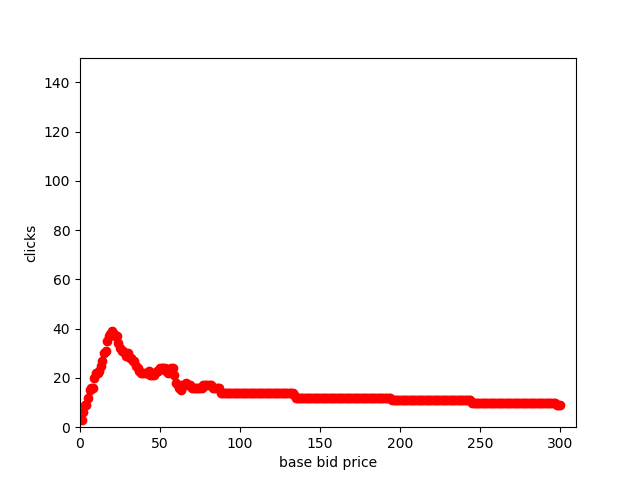
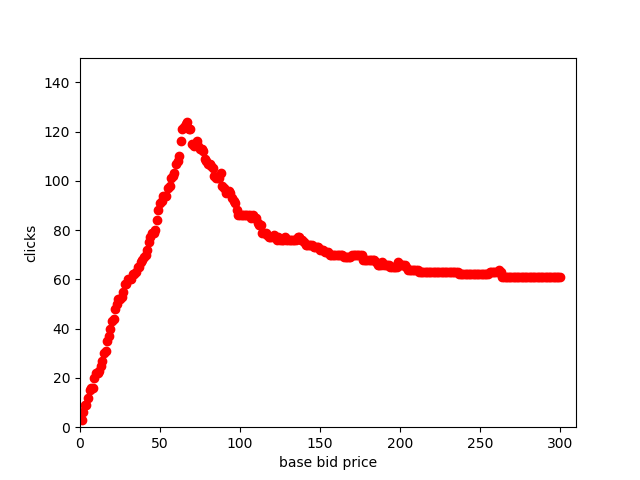
change the budget error in report

Changed region(s): [[0.1562, 0.25, 0.9062, 0.875]]

diff --git a/report/group_11_report.tex b/report/group_11_report.tex
@@ -106,22 +106,20 @@ Evaluation function: For the single-agent basic bidding strategies, the main met
 
 \subsubsection{Constant Bidding Strategy}
 In order to find an optimal constant value, we loop the constant bid prices from 0 to 300, which are the minimum bid price and maximum bid price, to find out the bid price with the highest clicks from winning impressions. Specifically, for each constant price, we retrieve the columns of 'payprice' and 'click' for all the bids in the training set. Then we compare our constant bid price with the 'payprice' for each bid and add up the click into our total clicks if our constant bid price is great than or equal to the 'payprice' while the total spend is calculated at the mean time. Afterwards we remove the clicks from bottom to top where the total spend has been over our limited budget.
+In order to use the training set to find out a good price for validation set, initially we need to normalize the budget based on equation 1.
+
+\begin{equation}budget_{train}=\frac{sizeOfTrain}{sizeOfValidation} * budget_{validation}\end{equation}
 
 Analysis: 
-Figure 1 shows that how the number of clicks changes based on the increment of the constant bidding price.
-The clicks increase dramatically when the constant bidding price increases from 1 to 24 and the climax of clicks is 134 when the constant bidding price is 24. Then the clicks drop sharply when the bidding price increases from 25 to 69. Afterwards, the clicks decrease smoothly.
-
-In order to evaluate our result on validation set, initially we need to normalise the budget based on the Equation 1.\\
-
-\begin{equation}bidPrice_{validation}=\frac{sizeOfValidation}{sizeOfTrain} * bidPrice_{train}\end{equation}
+Figure 1 shows that how the value of click changes based on the increment of the constant bidding price. The clicks increase dramatically when the constant bidding price increases from 1 to 78 and the climax of clicks is 643 when the constant bidding price is 77. Then the clicks drop smoothly when the bidding price increases from 78 to 300.
 
 
-Figure 2 shows the changes of number of clicks depending on bid price in the validation set with a normalised budget. We could see the clicks are relatively high when the bid price is between 18 to 68. Moreover, the highest clicks are 15 while the clicks are 12 when bid price is 24. Therefore, bid price 24 is a relatively satisfactory price in the validation set.
+Figure 2 shows the changes of click value depending on bid price in the validation set with the standard budget. We could see the clicks are relatively high when the bid price is between 70 to 100. Surprisingly, the value of click is maximized as 68 when the bidding price is 77 or 79. Therefore, the finding in our training data is perfectly match the validation set.
 
 \begin{figure}
 \centering
 \includegraphics[height=2in, width=2in]{images/constant_bidding.png}
-\caption{Validation set - bid price and clicks}
+\caption{Training set - bid price and clicks}
 \end{figure}
 
 \begin{figure}
@@ -137,7 +135,8 @@ Figure 2 shows the changes of number of clicks depending on bid price in the val
 In order to find the optimal bidding range for random bidding, we step through a range of lower bound and a range of upper bound to find out the bid price with the highest clicks from winning impressions. Similarly, we use the same method as the one in Constant Bidding Strategy to calculate the clicks. 
 
 Analysis: 
-The highest clicks are 132 generated from range(30, 40) and the second highest clicks are 131 generated by range(0, 50) in the training set. By normalising the budget in the validation set based on equation 1, we find the highest clicks are 15 generated from the range(0, 50). Therefore, the findings in training set successfully match validation set. 
+The highest clicks are 628 generated from range 10 to 130 in the training set with the limited normalized budget. In the validation set, we find the highest clicks are 76 generated from the range 20 to 150. It is acceptable that the best range in these two sets are not far from each other.
+
 
 \subsubsection{Competition among homogeneous random bidding agents}
 
@@ -163,12 +162,12 @@ Comparison:
 \caption{Behaviour Comparison}
 \begin{tabular}{|c|c|c|l|} \hline
 &Constant Bidding&Random Bidding&Linear Bidding\\ \hline
-price&24&range(0, 50)&20(base)\\ \hline
-clicks&12& 15&39\\
+price&79&range(20, 150)&67(base)\\ \hline
+clicks&68& 76&124\\
 \hline\end{tabular}
 \end{table}
 
-Obviously, the behaviour of the linear bidding strategy is much better than random bidding and constant bidding strategies. The optimal value of clicks in linear bidding is 39 while the ones of constant bidding and random bidding are merely 12 and 15 separately.
+Obviously, the behaviour of the linear bidding strategy is much better than random bidding and constant bidding strategies. The optimal value of clicks in linear bidding is 124 while the ones of constant bidding and random bidding are merely 68 and 76 separately.
 
 %%%%%%%
 \subsection{Problem 4: Non-Linear Bidding Strategy}
